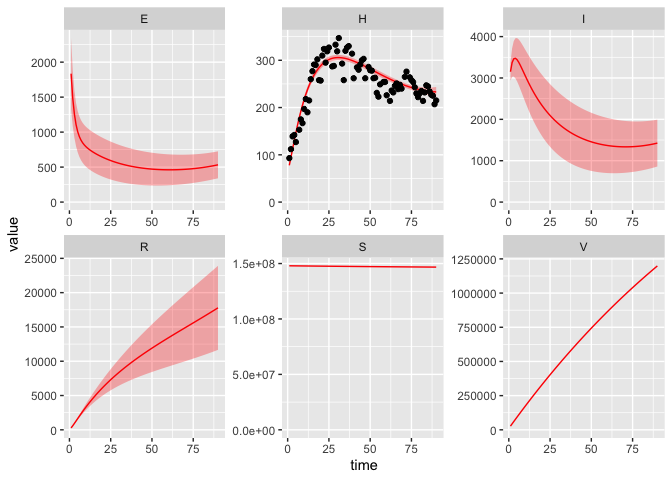
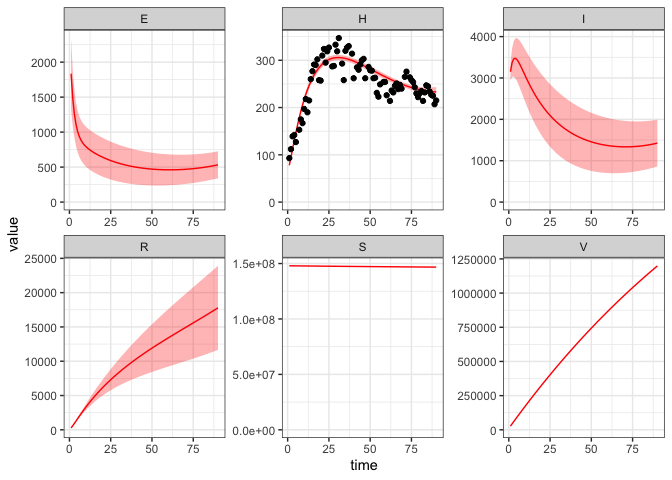
[skip ci] work on starter models

diff --git a/inst/starter_models/shiver/README.md b/inst/starter_models/shiver/README.md
@@ -759,6 +759,7 @@ goes to zero, which is not at all realistic.
   + geom_ribbon(aes(ymin = conf.low, ymax = conf.high), fill = "red", alpha = 0.3)
   + geom_point(data = reported_hospitalizations, aes(time, value))
   + ylim(c(0, NA))
+  + theme_bw()
 )
 ```
 
@@ -912,7 +913,7 @@ shiver_calibrator = mp_tmb_calibrator(
     , reported_incidence = mp_log_normal(sd = mp_fit(1))
   )
   , par = prior_distributions
-    # fit the transmission rate using four radial basis functions for
+    # fit the transmission rate using five radial basis functions for
     # a flexible model of time variation.
   , tv = mp_rbf("rbf_beta", 5, sparse_tol = 1e-8)
   , outputs = c(states, "reported_incidence", "beta")
